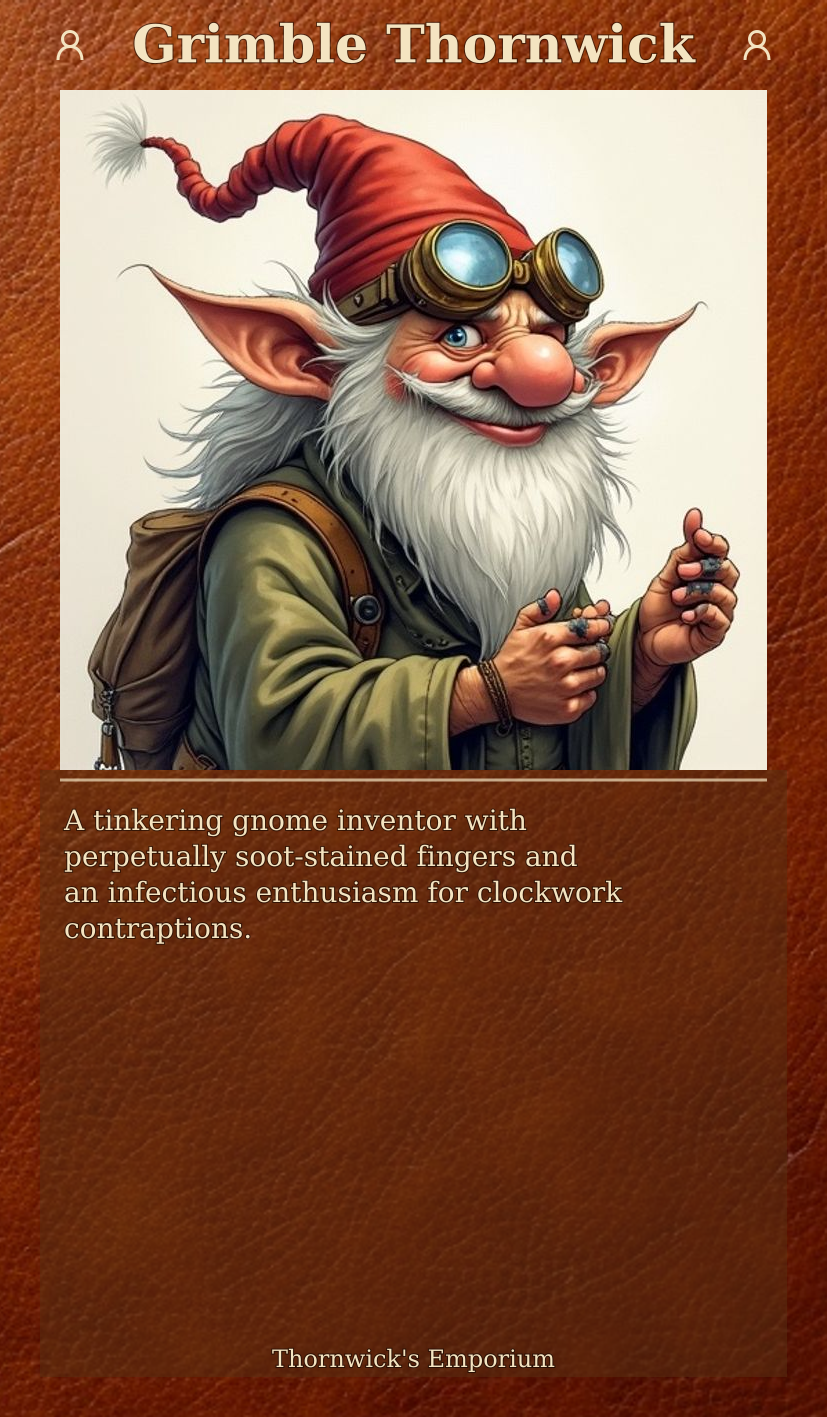
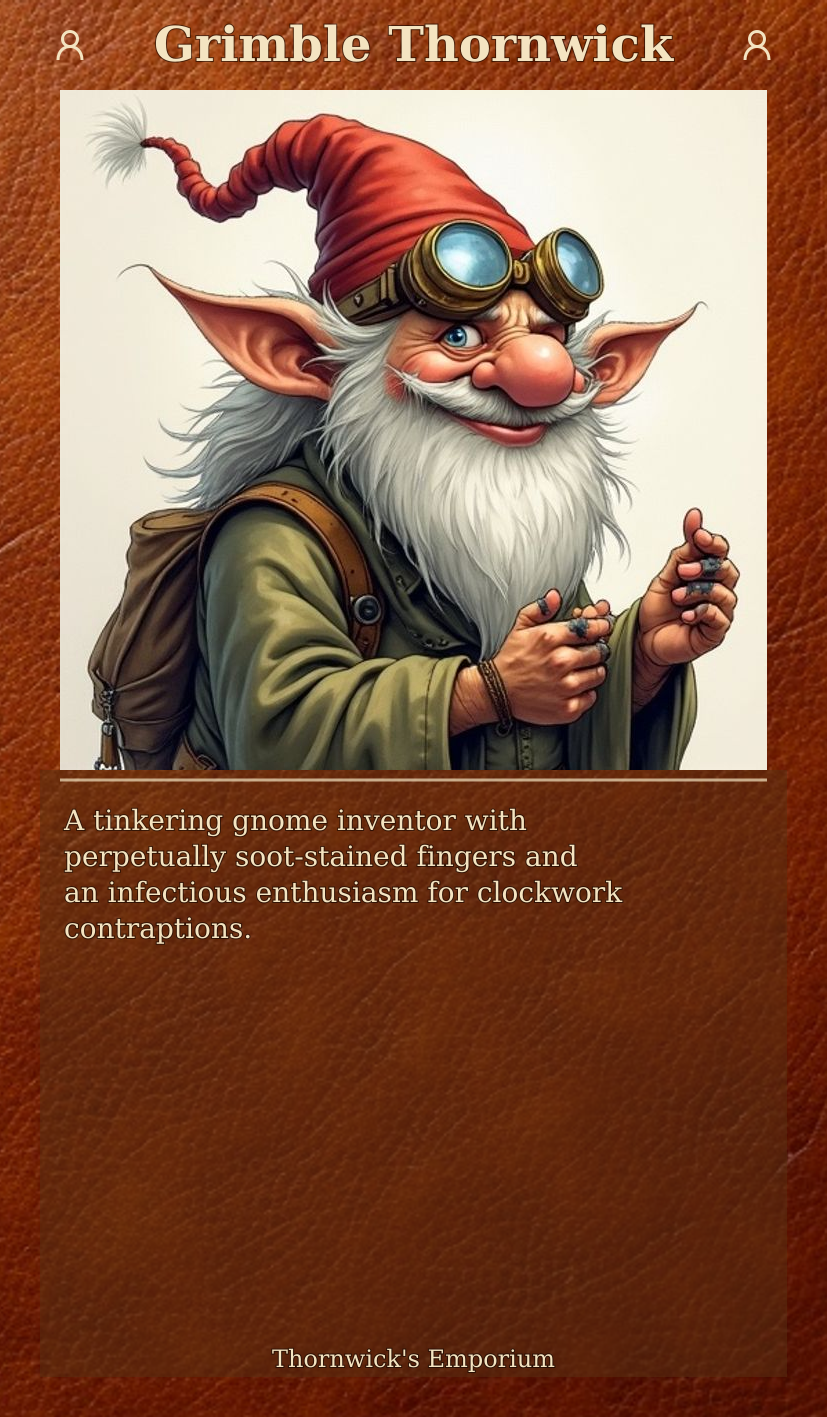
Add edge case tests and dynamic title/footer scaling
- Add text length test variants (short, medium, long, very long)
- Add category test variants (location, item, faction) with different icons
- Add category-specific icons (NPC, location, item, faction, quest)
- Implement auto-scaling title size based on name length
- Truncate long footers with ellipsis (max 40 chars)
- Update textureOverlaySvg to accept custom card data and icons
- Update VARIANTS.md with edge case test section

Changed region(s): [[0.1511, 0.0, 0.8464, 0.0621]]

diff --git a/packages/card-generator/scripts/generate-all-variants.js b/packages/card-generator/scripts/generate-all-variants.js
@@ -11,8 +11,64 @@ const sharp = require('sharp');
 const W = 827, H = 1417;
 const B = 40; // Border width
 const NPC_COLORS = { accent: '#8B4513', light: '#D2691E' };
-const ICON_SVG = `<g transform="translate(0,0) scale(1.5)" fill="none" stroke="#f4e4c1" stroke-width="2"><circle cx="12" cy="8" r="5"/><path d="M4 22c0-6 4-9 8-9s8 3 8 9"/></g>`;
-const CARD = { name: 'Grimble Thornwick', desc: 'A tinkering gnome inventor with perpetually soot-stained fingers and an infectious enthusiasm for clockwork contraptions.', footer: "Thornwick's Emporium" };
+
+// Category-specific icons (simple SVG paths for different card types)
+const CATEGORY_ICONS = {
+  npc: `<g transform="translate(0,0) scale(1.5)" fill="none" stroke="#f4e4c1" stroke-width="2"><circle cx="12" cy="8" r="5"/><path d="M4 22c0-6 4-9 8-9s8 3 8 9"/></g>`,
+  location: `<g transform="translate(0,0) scale(1.5)" fill="none" stroke="#f4e4c1" stroke-width="2"><path d="M12 2L2 7l10 5 10-5-10-5z"/><path d="M2 17l10 5 10-5"/><path d="M2 12l10 5 10-5"/></g>`,
+  item: `<g transform="translate(0,0) scale(1.5)" fill="none" stroke="#f4e4c1" stroke-width="2"><path d="M6 2L3 6v14a2 2 0 002 2h14a2 2 0 002-2V6l-3-4z"/><line x1="3" y1="6" x2="21" y2="6"/><path d="M16 10a4 4 0 01-8 0"/></g>`,
+  faction: `<g transform="translate(0,0) scale(1.5)" fill="none" stroke="#f4e4c1" stroke-width="2"><path d="M4 15s1-1 4-1 5 2 8 2 4-1 4-1V3s-1 1-4 1-5-2-8-2-4 1-4 1z"/><line x1="4" y1="22" x2="4" y2="15"/></g>`,
+  quest: `<g transform="translate(0,0) scale(1.5)" fill="none" stroke="#f4e4c1" stroke-width="2"><path d="M14 2H6a2 2 0 00-2 2v16a2 2 0 002 2h12a2 2 0 002-2V8z"/><polyline points="14 2 14 8 20 8"/><line x1="16" y1="13" x2="8" y2="13"/><line x1="16" y1="17" x2="8" y2="17"/></g>`
+};
+
+const ICON_SVG = CATEGORY_ICONS.npc; // Default icon
+
+// Test card content for edge cases
+const CARD_SAMPLES = {
+  default: {
+    name: 'Grimble Thornwick',
+    desc: 'A tinkering gnome inventor with perpetually soot-stained fingers and an infectious enthusiasm for clockwork contraptions.',
+    footer: "Thornwick's Emporium"
+  },
+  shortText: {
+    name: 'Bob',
+    desc: 'A friendly innkeeper.',
+    footer: 'Inn'
+  },
+  mediumText: {
+    name: 'Lady Seraphina Windwhisper',
+    desc: 'An elegant elven diplomat known for her silver tongue and keen political instincts.',
+    footer: "Elven Embassy"
+  },
+  longText: {
+    name: 'Bartholomew Coppergear III',
+    desc: 'A meticulous dwarven artificer who spent three centuries perfecting the art of clockwork engineering. His workshop is filled with whirring gears, ticking mechanisms, and the occasional explosive prototype. Despite his gruff exterior, he secretly crafts music boxes for orphaned children.',
+    footer: "The Grand Clockwork Emporium of Wonders"
+  },
+  veryLongText: {
+    name: 'High Archmagister Valdris Stormweaver the Eternal',
+    desc: 'An ancient wizard of immense power who has lived for millennia through forbidden time magic. His tower stands at the crossroads of three ley lines, drawing arcane energy from the very fabric of reality. Those who seek his counsel must first solve three riddles, survive the maze of living shadows, and prove their worth in a battle of wits against his enchanted chess set. Many have tried; few have succeeded.',
+    footer: "Tower of Eternal Mysteries, Northwest of the Crystal Lake"
+  },
+  // Category-specific samples
+  location: {
+    name: 'The Gilded Tankard',
+    desc: 'A bustling tavern at the crossroads where travelers share tales and merchants strike deals over foaming ales.',
+    footer: 'Market District'
+  },
+  item: {
+    name: 'Blade of the Dawn',
+    desc: 'An ancient longsword that glows with warm light. Deals extra radiant damage to undead.',
+    footer: 'Legendary Weapon'
+  },
+  faction: {
+    name: 'The Silver Hand',
+    desc: 'A secretive order of paladins dedicated to hunting down evil across the realm.',
+    footer: 'Lawful Good'
+  }
+};
+
+const CARD = CARD_SAMPLES.default;
 
 const esc = s => String(s||'').replace(/&/g,'&amp;').replace(/</g,'&lt;').replace(/>/g,'&gt;');
 const wrap = (t,n) => { const w=t.split(' '),l=[]; let c=''; for(const x of w){if((c+' '+x).trim().length<=n)c=(c+' '+x).trim();else{if(c)l.push(c);c=x;}} if(c)l.push(c); return l; };
@@ -57,6 +113,20 @@ function textureOverlaySvg(opts = {}) {
   const divider = opts.divider !== false;
   const charsPerLine = opts.charsPerLine || 38;
 
+  // Custom card content and icon support
+  const cardData = opts.cardData || CARD;
+  const iconSvg = opts.iconSvg || ICON_SVG;
+
+  // Auto-scale title size based on name length
+  const nameLen = cardData.name.length;
+  const autoTitleSize = nameLen > 40 ? 28 : (nameLen > 30 ? 34 : (nameLen > 22 ? 42 : (nameLen > 16 ? 48 : titleSize)));
+
+  // Truncate footer if too long (max ~40 chars for single line)
+  const maxFooterLen = 40;
+  const displayFooter = cardData.footer.length > maxFooterLen
+    ? cardData.footer.slice(0, maxFooterLen - 1) + '…'
+    : cardData.footer;
+
   // Text area styling
   const textTint = opts.textTint || 'dark';  // 'none', 'dark', 'leather'
   const textBorder = opts.textBorder || 'none';  // 'none', 'line', 'decorative'
@@ -74,14 +144,16 @@ function textureOverlaySvg(opts = {}) {
 
   const iconY = (headerH - 36) / 2;
   const icons = showIcons ? `
-    <g transform="translate(${B + 12}, ${iconY})">${ICON_SVG}</g>
-    <g transform="translate(${W - B - 48}, ${iconY})">${ICON_SVG}</g>
+    <g transform="translate(${B + 12}, ${iconY})">${iconSvg}</g>
+    <g transform="translate(${W - B - 48}, ${iconY})">${iconSvg}</g>
   ` : '';
 
   const textStroke = 'stroke="rgba(0,0,0,0.5)" stroke-width="2" paint-order="stroke"';
 
+  // Footer centered in footer area (footerH = 36, fontSize = 24)
+  const footerY = H - B - footerH/2 + 8; // baseline offset for vertical centering
   const footerSvg = showFooter ? `
-    <text x="${W/2}" y="${H - B - 10}" font-family="${fontFamily}" font-size="24" fill="${textColor}" text-anchor="middle" ${textStroke}>${esc(CARD.footer)}</text>
+    <text x="${W/2}" y="${footerY}" font-family="${fontFamily}" font-size="24" fill="${textColor}" text-anchor="middle" ${textStroke}>${esc(displayFooter)}</text>
   ` : '';
 
   // Move divider down if there's a text border to avoid intersection
@@ -90,7 +162,7 @@ function textureOverlaySvg(opts = {}) {
     <line x1="${B + 20}" y1="${dividerY}" x2="${W - B - 20}" y2="${dividerY}" stroke="${textColor}" stroke-width="3" opacity="0.7"/>
   ` : '';
 
-  const lines = wrap(esc(CARD.desc), charsPerLine);
+  const lines = wrap(esc(cardData.desc), charsPerLine);
   const lineHeight = 36;
   const textStartY = textAreaTop + 44 + (divider ? 16 : 0);
 
@@ -121,10 +193,10 @@ function textureOverlaySvg(opts = {}) {
     // Category icons in lower corners of text area (same 12px margin as header icons)
     const tbX = B, tbY = textAreaTop, tbW = W - B*2, tbH = textAreaH + (showFooter ? footerH : 0);
     const iconMargin = 12;
-    const iconWidth = 36; // ICON_SVG scaled size
+    const iconWidth = 36; // icon scaled size
     textBorderSvg = `
-      <g transform="translate(${tbX + iconMargin}, ${tbY + tbH - iconWidth - iconMargin})">${ICON_SVG}</g>
-      <g transform="translate(${tbX + tbW - iconWidth - iconMargin}, ${tbY + tbH - iconWidth - iconMargin})">${ICON_SVG}</g>
+      <g transform="translate(${tbX + iconMargin}, ${tbY + tbH - iconWidth - iconMargin})">${iconSvg}</g>
+      <g transform="translate(${tbX + tbW - iconWidth - iconMargin}, ${tbY + tbH - iconWidth - iconMargin})">${iconSvg}</g>
     `;
   }
 
@@ -156,7 +228,7 @@ function textureOverlaySvg(opts = {}) {
     ${textBorderSvg}
     ${portraitBorderSvg}
     ${icons}
-    <text x="${W/2}" y="${headerH/2 + titleSize/3}" font-family="${fontFamily}" font-size="${titleSize}" font-weight="bold" fill="${textColor}" text-anchor="middle" ${textStroke}>${esc(CARD.name)}</text>
+    <text x="${W/2}" y="${headerH/2 + autoTitleSize/3}" font-family="${fontFamily}" font-size="${autoTitleSize}" font-weight="bold" fill="${textColor}" text-anchor="middle" ${textStroke}>${esc(cardData.name)}</text>
     ${dividerSvg}
     ${lines.map((l, i) => `<text x="${B + 24}" y="${textStartY + i * lineHeight}" font-family="${fontFamily}" font-size="${bodySize}" fill="${textColor}" ${textStroke}>${l}</text>`).join('')}
     ${footerSvg}
@@ -480,6 +552,90 @@ const variants = [
       await renderTextureCard(svg, p, o, texturePath, { roundedPortrait: true, cornerRadius: 20 });
     }
   },
+
+  // === TEXT LENGTH TESTS ===
+  {
+    id: '20-text-short',
+    desc: 'Test: short text (minimal content)',
+    gen: async (p, o, texturePath) => {
+      const svg = textureOverlaySvg({
+        textTint: 'none', textBorder: 'icons', portraitCorners: 'rounded',
+        cardData: CARD_SAMPLES.shortText
+      });
+      await renderTextureCard(svg, p, o, texturePath, { roundedPortrait: true, cornerRadius: 20 });
+    }
+  },
+  {
+    id: '21-text-medium',
+    desc: 'Test: medium text (typical NPC)',
+    gen: async (p, o, texturePath) => {
+      const svg = textureOverlaySvg({
+        textTint: 'none', textBorder: 'icons', portraitCorners: 'rounded',
+        cardData: CARD_SAMPLES.mediumText
+      });
+      await renderTextureCard(svg, p, o, texturePath, { roundedPortrait: true, cornerRadius: 20 });
+    }
+  },
+  {
+    id: '22-text-long',
+    desc: 'Test: long text (detailed description)',
+    gen: async (p, o, texturePath) => {
+      const svg = textureOverlaySvg({
+        textTint: 'none', textBorder: 'icons', portraitCorners: 'rounded',
+        cardData: CARD_SAMPLES.longText
+      });
+      await renderTextureCard(svg, p, o, texturePath, { roundedPortrait: true, cornerRadius: 20 });
+    }
+  },
+  {
+    id: '23-text-very-long',
+    desc: 'Test: very long text (potential overflow)',
+    gen: async (p, o, texturePath) => {
+      const svg = textureOverlaySvg({
+        textTint: 'none', textBorder: 'icons', portraitCorners: 'rounded',
+        cardData: CARD_SAMPLES.veryLongText
+      });
+      await renderTextureCard(svg, p, o, texturePath, { roundedPortrait: true, cornerRadius: 20 });
+    }
+  },
+
+  // === CATEGORY TESTS ===
+  {
+    id: '30-cat-location',
+    desc: 'Test: location category (different icon)',
+    gen: async (p, o, texturePath) => {
+      const svg = textureOverlaySvg({
+        textTint: 'none', textBorder: 'icons', portraitCorners: 'rounded',
+        cardData: CARD_SAMPLES.location,
+        iconSvg: CATEGORY_ICONS.location
+      });
+      await renderTextureCard(svg, p, o, texturePath, { roundedPortrait: true, cornerRadius: 20 });
+    }
+  },
+  {
+    id: '31-cat-item',
+    desc: 'Test: item category (different icon)',
+    gen: async (p, o, texturePath) => {
+      const svg = textureOverlaySvg({
+        textTint: 'none', textBorder: 'icons', portraitCorners: 'rounded',
+        cardData: CARD_SAMPLES.item,
+        iconSvg: CATEGORY_ICONS.item
+      });
+      await renderTextureCard(svg, p, o, texturePath, { roundedPortrait: true, cornerRadius: 20 });
+    }
+  },
+  {
+    id: '32-cat-faction',
+    desc: 'Test: faction category (different icon)',
+    gen: async (p, o, texturePath) => {
+      const svg = textureOverlaySvg({
+        textTint: 'none', textBorder: 'icons', portraitCorners: 'rounded',
+        cardData: CARD_SAMPLES.faction,
+        iconSvg: CATEGORY_ICONS.faction
+      });
+      await renderTextureCard(svg, p, o, texturePath, { roundedPortrait: true, cornerRadius: 20 });
+    }
+  },
 ];
 
 async function main() {
@@ -579,6 +735,26 @@ Generate texture: \`node scripts/generate-texture.js texture.png --category=npc 
 | Decorative corners | Icons in corners |
 |:---:|:---:|
 | <img src="17-tex-decorative-corners.png" width="250"/> | <img src="18-tex-corner-icons.png" width="250"/> |
+
+---
+
+## Edge Case Tests
+
+### Text Length Handling
+
+| Short text | Medium text |
+|:---:|:---:|
+| <img src="20-text-short.png" width="250"/> | <img src="21-text-medium.png" width="250"/> |
+
+| Long text | Very long text |
+|:---:|:---:|
+| <img src="22-text-long.png" width="250"/> | <img src="23-text-very-long.png" width="250"/> |
+
+### Category Variants (different icons)
+
+| Location | Item | Faction |
+|:---:|:---:|:---:|
+| <img src="30-cat-location.png" width="200"/> | <img src="31-cat-item.png" width="200"/> | <img src="32-cat-faction.png" width="200"/> |
 
 ---
 `;

diff --git a/campaigns/example/cards/exploration/VARIANTS.md b/campaigns/example/cards/exploration/VARIANTS.md
@@ -83,3 +83,23 @@ Generate texture: `node scripts/generate-texture.js texture.png --category=npc -
 | <img src="17-tex-decorative-corners.png" width="250"/> | <img src="18-tex-corner-icons.png" width="250"/> |
 
 ---
+
+## Edge Case Tests
+
+### Text Length Handling
+
+| Short text | Medium text |
+|:---:|:---:|
+| <img src="20-text-short.png" width="250"/> | <img src="21-text-medium.png" width="250"/> |
+
+| Long text | Very long text |
+|:---:|:---:|
+| <img src="22-text-long.png" width="250"/> | <img src="23-text-very-long.png" width="250"/> |
+
+### Category Variants (different icons)
+
+| Location | Item | Faction |
+|:---:|:---:|:---:|
+| <img src="30-cat-location.png" width="200"/> | <img src="31-cat-item.png" width="200"/> | <img src="32-cat-faction.png" width="200"/> |
+
+---
